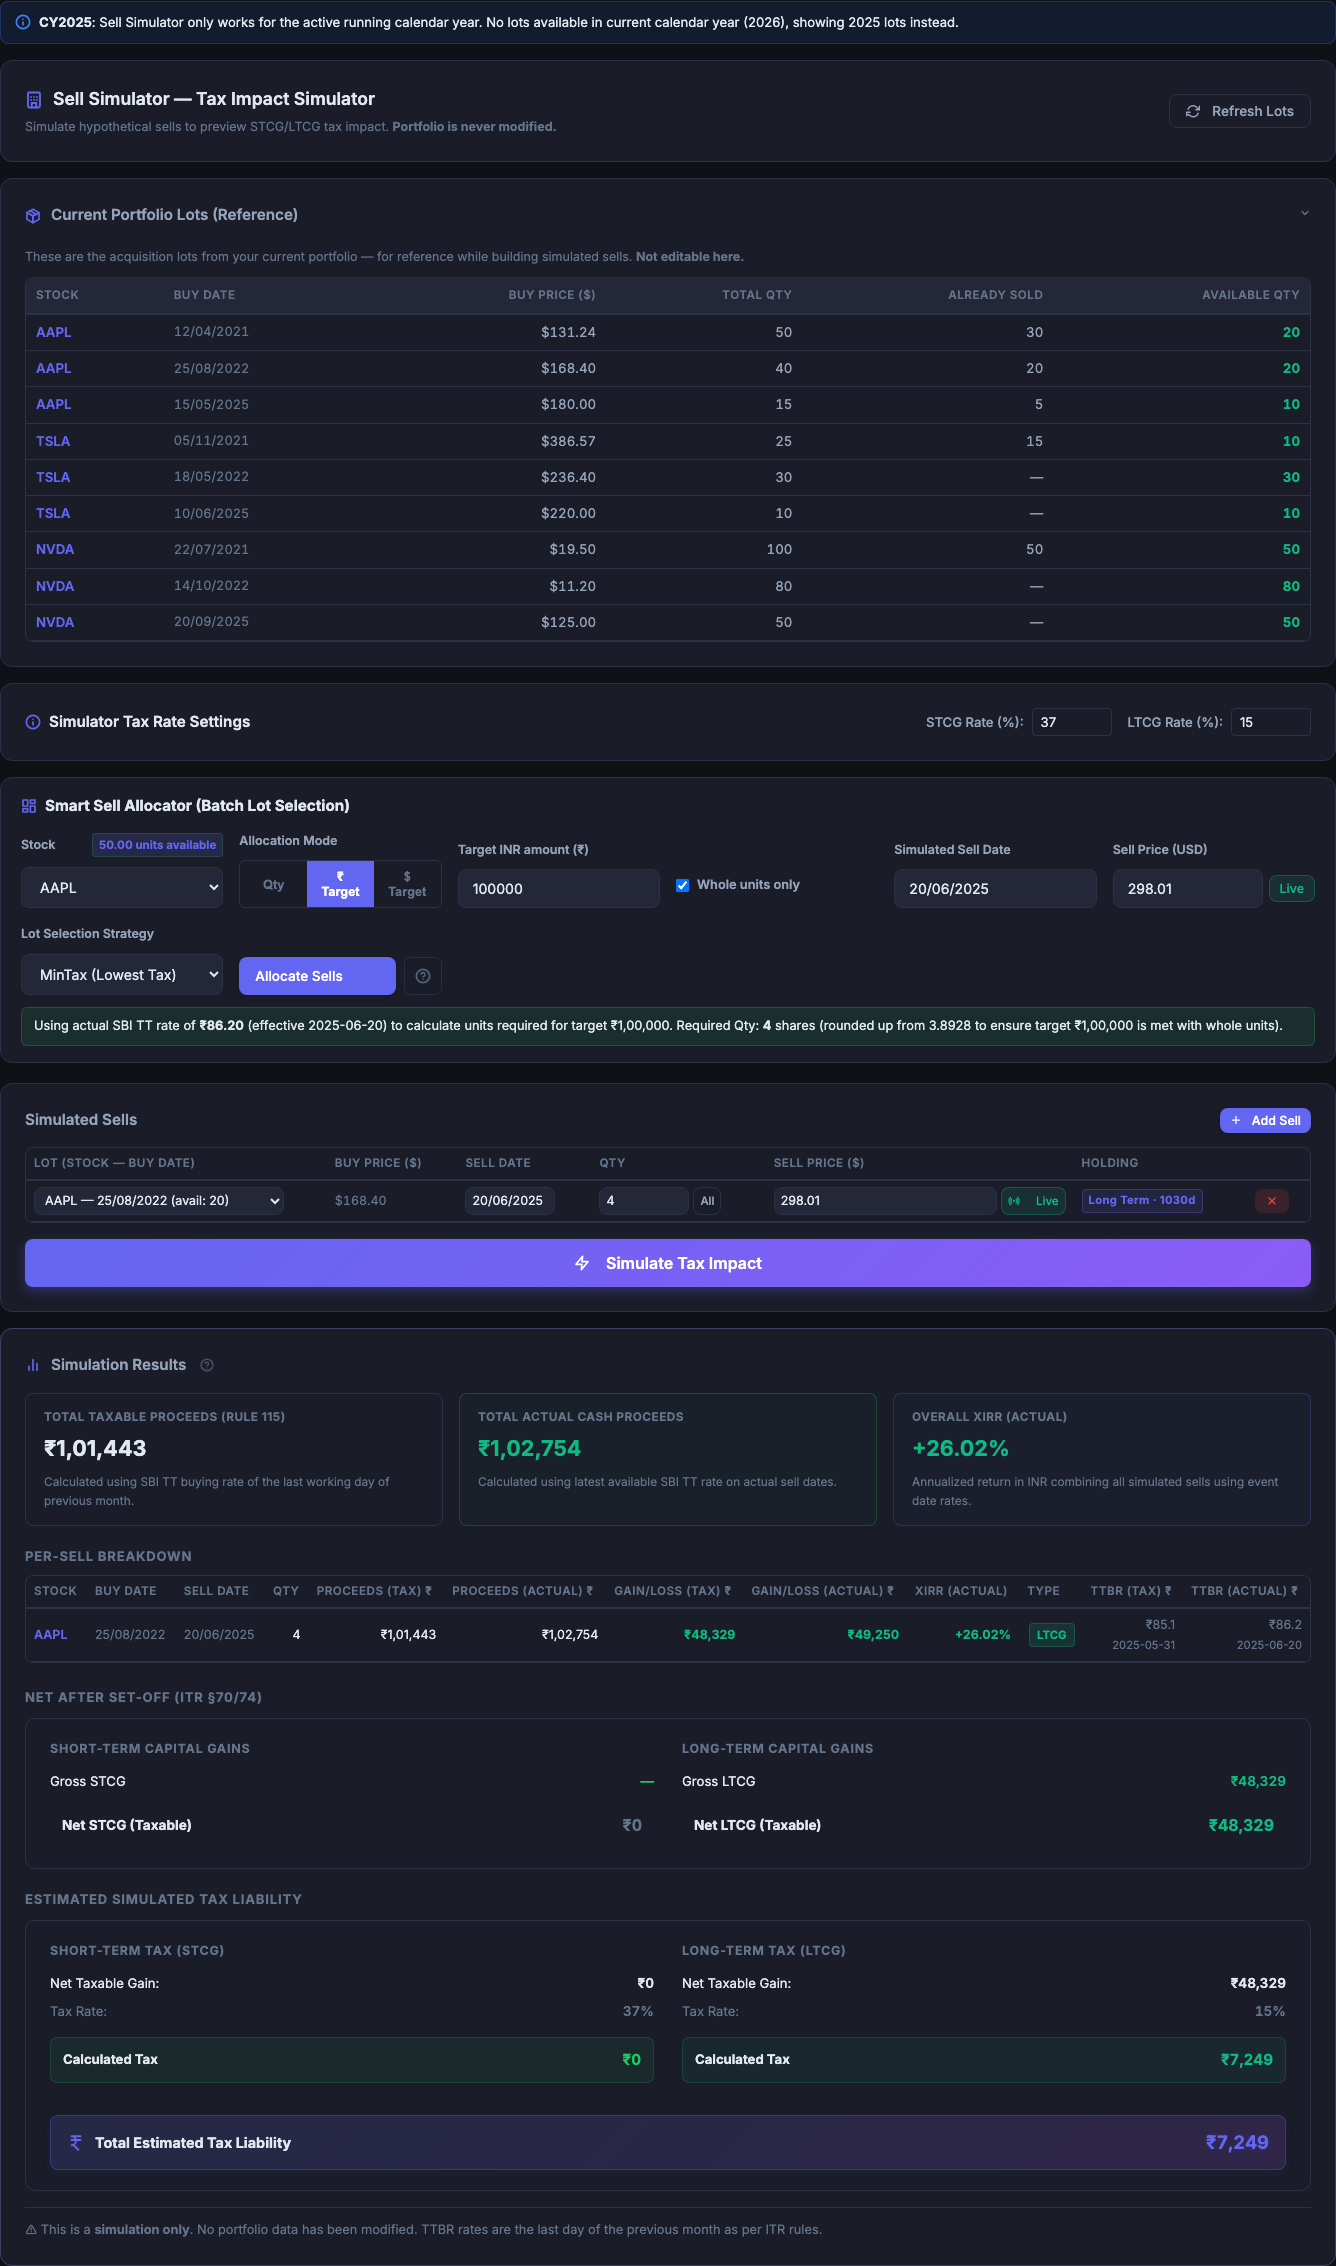
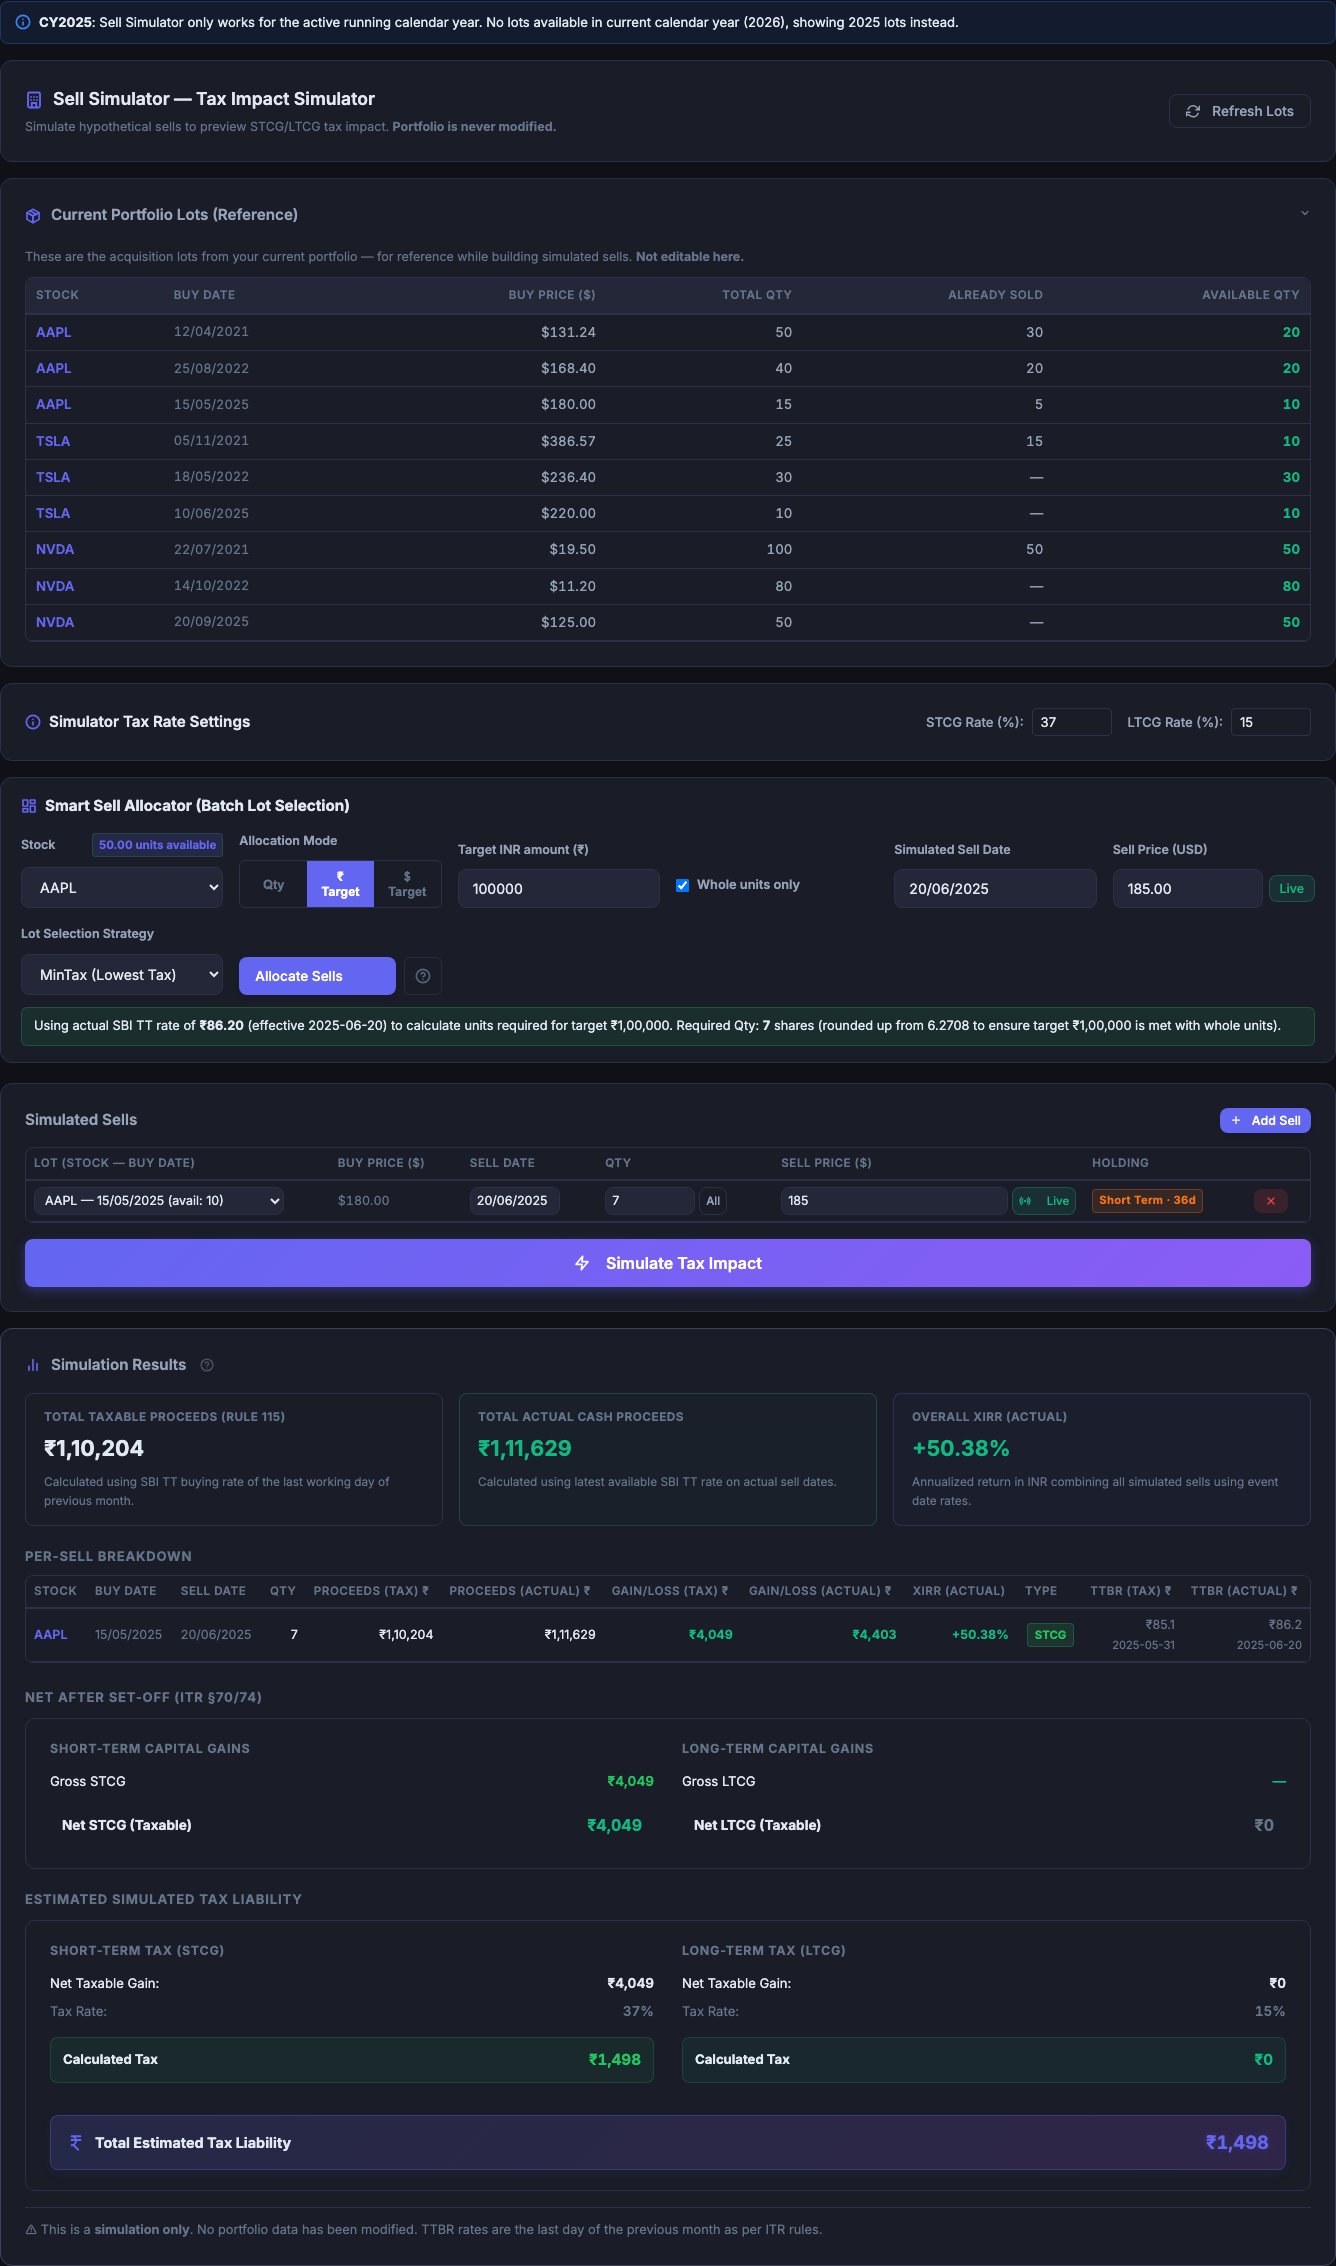
Add Form 67 section for Foreign Tax Credit
- Added Double Taxation Relief (Form 67) table below FSI Schedule
- Populates dividend (Other Sources) income, tax paid, and DTAA relief
- Sets default DTAA Article for US to '10,25'
- Excludes Capital Gains from Form 67
- Updates screenshots for new layout

diff --git a/static/js/modules/components/resultsTable.js b/static/js/modules/components/resultsTable.js
@@ -2169,6 +2169,139 @@ export function renderConsolidatedTaxSummary(data) {
         slabInput.addEventListener("input", redrawFSITable);
         redrawFSITable();
         block.appendChild(fsiCard);
+
+        // ===== Form 67 Section — Foreign Tax Credit Claimed =====
+        const form67Header = document.createElement("div");
+        form67Header.style.cssText = "font-size:0.82rem;font-weight:700;color:var(--text-muted);text-transform:uppercase;letter-spacing:0.06em;margin:25px 0 10px;";
+        form67Header.textContent = "DOUBLE TAXATION RELIEF (FORM 67) — FOREIGN TAX CREDIT CLAIMED";
+        block.appendChild(form67Header);
+
+        const form67Card = document.createElement("div");
+        form67Card.style.cssText = "background:var(--bg-input);border-radius:10px;border:1px solid var(--border);padding:24px;display:flex;flex-direction:column;gap:16px;margin-bottom:8px;overflow-x:auto;";
+
+        const form67TableContainer = document.createElement("div");
+        form67Card.appendChild(form67TableContainer);
+
+        const redrawForm67Table = () => {
+            const slabRate = parseFloat(slabInput.value || "30") || 0;
+
+            const copyBtn = (val) => `
+                <button type="button" class="fsi-copy-btn" data-value="${val}" title="Copy ${val}" style="background:none;border:none;cursor:pointer;padding:2px;margin-left:4px;opacity:0.4;transition:opacity 0.15s;vertical-align:middle;line-height:1;display:inline-flex;align-items:center;">
+                    <svg xmlns="http://www.w3.org/2000/svg" width="12" height="12" viewBox="0 0 24 24" fill="none" stroke="currentColor" stroke-width="2.5" stroke-linecap="round" stroke-linejoin="round"><rect x="9" y="9" width="13" height="13" rx="2" ry="2"></rect><path d="M5 15H4a2 2 0 0 1-2-2V4a2 2 0 0 1 2-2h9a2 2 0 0 1 2 2v1"></path></svg>
+                </button>
+            `;
+
+            const thStyle = "padding:8px 6px;font-weight:700;color:var(--text-muted);border:1px solid var(--border);text-align:center;font-size:0.72rem;line-height:1.25;";
+            const tdStyle = "padding:6px 8px;border:1px solid var(--border);font-size:0.78rem;";
+            const tdRight = `${tdStyle}text-align:right;font-variant-numeric:tabular-nums;white-space:nowrap;`;
+            const tdCenter = `${tdStyle}text-align:center;`;
+
+            let html = `
+                <table class="fsi-table" style="width:100%;border-collapse:collapse;font-size:0.78rem;text-align:left;min-width:1100px;">
+                    <thead>
+                        <tr style="background:var(--bg-card);border-bottom:1px solid var(--border);">
+                            <th rowspan="2" style="${thStyle}width:40px;">Sl.<br>No.</th>
+                            <th rowspan="2" style="${thStyle}width:120px;">Name of Country</th>
+                            <th rowspan="2" style="${thStyle}width:90px;">Source of Income</th>
+                            <th rowspan="2" style="${thStyle}width:110px;">Income from Outside India</th>
+                            <th colspan="2" style="${thStyle}">Tax Paid Outside India</th>
+                            <th rowspan="2" style="${thStyle}width:110px;">Tax Payable under Normal Provisions in India</th>
+                            <th rowspan="2" style="${thStyle}width:70px;">Tax Payable u/s 115JB/JC</th>
+                            <th colspan="3" style="${thStyle}">Credit Claimed u/s 90/90A</th>
+                            <th rowspan="2" style="${thStyle}width:80px;">Credit u/s 91</th>
+                            <th rowspan="2" style="${thStyle}width:100px;">Total FTC Claimed</th>
+                        </tr>
+                        <tr style="background:var(--bg-card);border-bottom:1px solid var(--border);">
+                            <th style="${thStyle}width:90px;">Amount</th>
+                            <th style="${thStyle}width:55px;">Rate (%)</th>
+                            <th style="${thStyle}width:80px;">DTAA Article</th>
+                            <th style="${thStyle}width:65px;">DTAA Rate (%)</th>
+                            <th style="${thStyle}width:90px;">Amount</th>
+                        </tr>
+                    </thead>
+                    <tbody>
+            `;
+
+            let globalSlNo = 0;
+
+            activeCountries.forEach((country) => {
+                const g = countryGroups[country];
+                const os_income = Math.max(0, g.dividends);
+                if (os_income <= 0) return;
+
+                const slabRate = parseFloat(slabInput.value || "30") || 0;
+                const os_tax_payable = Math.round(os_income * (slabRate / 100));
+
+                const os_override_key = `${country}_os`;
+                let os_default_tax_paid = 0;
+                const isUS = (country.includes("UNITED STATES") || country.startsWith("2-"));
+                if (isUS) {
+                    os_default_tax_paid = Math.round(os_income * 0.25);
+                }
+                const os_tax_paid = (os_override_key in window._fsiTaxPaidOverrides) ? window._fsiTaxPaidOverrides[os_override_key] : os_default_tax_paid;
+
+                const f67_art_key = `${country}_f67_art`;
+                const os_art = (f67_art_key in window._fsiDTAAArticles) ? window._fsiDTAAArticles[f67_art_key] : "10,25";
+
+                const os_relief = Math.min(os_tax_paid, os_tax_payable);
+                const os_paid_rate = os_income > 0 ? Math.round((os_tax_paid / os_income) * 100) : 0;
+                const os_dtaa_rate = os_art ? os_paid_rate : 0;
+                const os_dtaa_amount = os_art ? os_relief : 0;
+                const os_s91 = os_art ? 0 : os_relief;
+                const os_total_ftc = os_dtaa_amount + os_s91;
+
+                // Clean country name for display (remove code prefix like "2-")
+                const countryDisplay = country.replace(/^\d+-/, "").split(" ").map(w => w.charAt(0) + w.slice(1).toLowerCase()).join(" ");
+
+                globalSlNo++;
+                html += `
+                    <tr style="border-top:1px solid var(--border);">
+                        <td style="${tdCenter}font-weight:700;">${globalSlNo}</td>
+                        <td style="${tdStyle}font-weight:600;font-size:0.76rem;line-height:1.2;">${countryDisplay}</td>
+                        <td style="${tdCenter}font-weight:600;">Dividend</td>
+                        <td style="${tdRight}font-weight:600;">₹${formatINR(os_income)}${copyBtn(os_income)}</td>
+                        <td style="${tdRight}">₹${formatINR(os_tax_paid)}${copyBtn(os_tax_paid)}</td>
+                        <td style="${tdCenter}">${os_paid_rate}</td>
+                        <td style="${tdRight}">₹${formatINR(os_tax_payable)}${copyBtn(os_tax_payable)}</td>
+                        <td style="${tdCenter}color:var(--text-muted);">-</td>
+                        <td style="${tdCenter}">${os_art || "-"}</td>
+                        <td style="${tdCenter}">${os_art ? os_dtaa_rate : "-"}</td>
+                        <td style="${tdRight}font-weight:600;">₹${formatINR(os_dtaa_amount)}${copyBtn(os_dtaa_amount)}</td>
+                        <td style="${tdRight}">₹${formatINR(os_s91)}${copyBtn(os_s91)}</td>
+                        <td style="${tdRight}font-weight:700;color:var(--success);">₹${formatINR(os_total_ftc)}${copyBtn(os_total_ftc)}</td>
+                    </tr>`;
+            });
+
+            html += `
+                    </tbody>
+                </table>
+            `;
+            form67TableContainer.innerHTML = html;
+
+            // Attach copy listeners (reuse same pattern as FSI)
+            form67TableContainer.querySelectorAll(".fsi-copy-btn").forEach(btn => {
+                btn.addEventListener("mouseenter", () => btn.style.opacity = "1");
+                btn.addEventListener("mouseleave", () => btn.style.opacity = "0.4");
+                btn.addEventListener("click", (e) => {
+                    e.stopPropagation();
+                    const text = String(btn.dataset.value);
+                    navigator.clipboard.writeText(text).then(() => {
+                        showToast(`Copied ${text}`, "success");
+                        btn.style.opacity = "1";
+                        btn.innerHTML = `<svg xmlns="http://www.w3.org/2000/svg" width="12" height="12" viewBox="0 0 24 24" fill="none" stroke="var(--success)" stroke-width="2.5" stroke-linecap="round" stroke-linejoin="round"><polyline points="20 6 9 17 4 12"></polyline></svg>`;
+                        setTimeout(() => {
+                            btn.style.opacity = "0.4";
+                            btn.innerHTML = `<svg xmlns="http://www.w3.org/2000/svg" width="12" height="12" viewBox="0 0 24 24" fill="none" stroke="currentColor" stroke-width="2.5" stroke-linecap="round" stroke-linejoin="round"><rect x="9" y="9" width="13" height="13" rx="2" ry="2"></rect><path d="M5 15H4a2 2 0 0 1-2-2V4a2 2 0 0 1 2-2h9a2 2 0 0 1 2 2v1"></path></svg>`;
+                        }, 1500);
+                    });
+                });
+            });
+        };
+
+        // Redraw Form 67 whenever FSI redraws (they share the same slab rate input)
+        slabInput.addEventListener("input", redrawForm67Table);
+        redrawForm67Table();
+        block.appendChild(form67Card);
     }
 
     container.appendChild(block);
